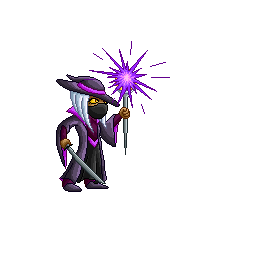
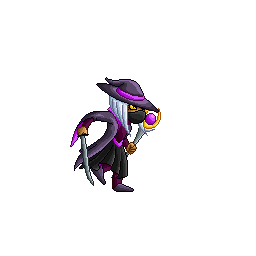
Add the third boss's policy

Changed region(s): [[0.2188, 0.1562, 0.6562, 0.75], [0.5938, 0.25, 0.6562, 0.3125]]

diff --git a/characters/level3/wizard_level3.py b/characters/level3/wizard_level3.py
@@ -1,74 +1,164 @@
-import pygame
 from characters.enemy import Enemy
 from characters.level1.projectile_level1 import Projectile
-from masters.first_boss_sprite_master import FirstBossSpriteMaster
+from characters.attack_info import AttackInfo
+from masters.second_boss_sprite_master import SecondBossSpriteMaster
 from scenes.scene_state import SceneState
 
 
 class ThirdBoss(Enemy):
 
-    def __init__(self, game_screen, start_position, projectile: Projectile):
-        super().__init__(game_screen, start_position, FirstBossSpriteMaster("levels/level3/wizard", 
-                            idle=3, walk=6, close_attack=5, distant_attack=5, 
-                            hurt=2, death=5, block=0, start_action="idle"))
+    def __init__(self, game_screen, start_position, projectile: Projectile, summoned_enemy: Enemy):
+        super().__init__(game_screen, start_position, SecondBossSpriteMaster("levels/level3/wizard", 
+                            idle=3, walk=6, close_attack=6, distant_attack=5, summoning=5, 
+                            hurt=2, death=6, block=0, start_action="idle"))
         
-        # Inject the projectile the wizard will use and adjust its position
+       # Inject the projectile the wizard will use and adjust its position
         self.projectile = projectile
         self.projectile.current_position[1] = self.current_position[1] + self.size * 0.2
-        self.collision_distance = 90
 
-        # Flag that indicates if the wizard has already shot
-        self.has_shot = False
+        # Inject the enemy the wizard will summon
+        self.summoned_enemy = summoned_enemy
 
+
+        self.attack_info = AttackInfo(3, True)
+        self.collision_distance = 100
         self.size = 220
 
-        # Cooldown time for attacks in milliseconds 
-        self.attack_cooldown = 500
+        # Flag indicating that the wizard has already passed the summoning phase
+        self.summoning_phase_done = False
 
-        # Elapsed time since last attack action
+        # Flag indicating that the wizard has already passed the shooting phase
+        self.shooting_phase_done = False 
+
+        # Flag indicating that the wizard has already passed the close combat phase
+        self.close_combat_phase_done = False 
+
+        # Duration of the summoning phase in milliseconds 
+        self.summoning_duration = 1500
+
+        # Duration of the shooting phase in milliseconds 
+        self.shooting_duration = 9000
+
+        # Duration of the close combat phase in milliseconds 
+        self.close_combat_duration = 5000
+
+        # Flag that indicates if the wizard has already shot within his distant attack
+        self.has_shot = False
+
+        # Cooldown time for attacks in milliseconds 
+        self.distant_attack_cooldown = 800
+
+        # Elapsed time since last action
         self.elapsed_time = 0
+
+        # Elapsed time since last shot
+        self.shot_elapsed_time = 0
+
+        # Flag that indicates if the wizard has already summoned within his summoning_phase
+        self.has_summoned = False
+    
     
     def policy(self, scene_state: SceneState) -> str:
         """
-        Shoots once per preset time
-        Dies when your health is less than or equal to 0
+        Has 4 phases of the fight: shooting, close combat, summoning
         """
-
-        if self.health<=0 and self.death_counter>0:
-            self.death_counter -= self.speed
-            return "death"   
         
-        if self.health <= 0 and self.death_counter <= 0:
-            self.current_position = (-100, -100)
-            return "death"
+        if self.health<=0:
+            if self.sprite_master.round_done:
+                self.current_position= (-100, -100)
+            return "death"   
+    
+        self.elapsed_time += scene_state.get_elapsed_time()
 
-        if self.current_action in ["fight", "shoot"]:
+        if not self.shooting_phase_done:
+            if self.elapsed_time < self.shooting_duration:
+                return self.fire(scene_state)
+            else:
+                self.shooting_phase_done = True
+                self.elapsed_time = 0
+        elif not self.close_combat_phase_done:
+            if self.elapsed_time < self.close_combat_duration:
+                return self.hit(scene_state)
+            else:
+                self.close_combat_phase_done = True
+                self.elapsed_time = 0
+        elif not self.summoning_phase_done:
+            if self.elapsed_time < self.summoning_duration:
+                return self.summon()
+            else:
+                self.summoning_phase_done = True
+                self.elapsed_time = 0
+                # The flag must be set on False here because there must be only one summoned creature during the phase
+                self.has_summoned = False
+        else:
+            self.shooting_phase_done = False
+            self.close_combat_phase_done = False
+            self.summoning_phase_done = False
+            self.elapsed_time = 0
+
+        return "idle"
+    
+    def fire(self, scene_state: SceneState):
+        
+        if self.current_action in ["distant_fight", "shoot"]:
             # If it's one of the hit frames and it hasn't fired yet then return "shoot" instead of "fight"
-            if int(self.fight_counter) == len(self.sprite_master.attack_images) // 2 and not self.has_shot:
-                self.fight_counter -= self.speed
+            if 3.0 <= self.sprite_master.frame_index and not self.has_shot:
                 self.has_shot = True
                 return "shoot"
             # If the attack animation isn't over yet then return "fight"
-            if self.fight_counter > 0:
-                self.fight_counter -= self.speed
-                return "fight"
+            if not self.sprite_master.round_done:
+                return "distant_fight"
             # Otherwise return "idle"
             else:
-                self.fight_counter = len(self.sprite_master.attack_images)
-                self.elapsed_time = 0
+                self.shot_elapsed_time = 0
                 self.has_shot = False
                 return "idle"
         # If the current action is "idle" 
         # then update the elapsed time and check if it's bigger than the cooldown time 
         else:
-            self.elapsed_time += scene_state.get_elapsed_time()
+            self.shot_elapsed_time += scene_state.get_elapsed_time()
             # If the cooldown is over then return "fight" to begin a new attack
             # otherwise keep waiting
-            if self.elapsed_time >= self.attack_cooldown:
-                return "fight"
+            if self.shot_elapsed_time >= self.distant_attack_cooldown:
+                return "distant_fight"
             else:
-                print("I'm waiting")
                 return "idle"
+            
+    def hit(self, scene_state: SceneState):
+
+        if self.current_action in ["close_fight", "hit"]:
+            if self.sprite_master.round_done:
+                return "idle"
+            elif 4.0 <= self.sprite_master.frame_index <= 5.0:
+                return "hit"
+            else:
+                return "close_fight"
+        elif self.cal_distance2player(scene_state.get_player_pos()) < 100:
+            return "close_fight"
+    
+    def be_weak(self):
+        return "hurt"
+    
+    def be_alert(self):
+        return "idle"
+    
+    def summon(self):
+
+        if self.current_action in ["summon", "commit_summoning"]:
+
+            if 3.0 <= self.sprite_master.frame_index and not self.has_summoned:
+                self.has_summoned = True
+                return "commit_summoning"
+            if not self.sprite_master.round_done:
+                return "summon"
+            else:
+                return "idle"
+        else:
+            if self.has_summoned:
+                return "idle"
+            else:
+                return "summon"
+        
     
     def get_projectile(self):
         """
@@ -78,3 +168,9 @@ class ThirdBoss(Enemy):
         projectile.current_position = self.current_position.copy()
         return projectile
     
+    def get_summoned_creature(self):
+        """
+        Returns a copy of the injected enemy instance
+        """
+        return self.summoned_enemy.copy()
+

diff --git a/scenes/scene04.py b/scenes/scene04.py
@@ -3,6 +3,7 @@ from scenes.scene00 import ScenePrelevel00
 from masters.save_master import SaveMaster
 from characters.level3.projectile_level3 import Projectile
 from characters.level3.wizard_level3 import ThirdBoss
+from characters.level2.ghost import Ghost
 from tools import Video 
 
 class Scene04(ScenePrelevel00):
@@ -12,13 +13,13 @@ class Scene04(ScenePrelevel00):
         super().__init__(scene_path, save_master, game_screen, clock, font, display_instructions=False)
         self.id = 104
         self.level = 3
-        self.enemy_pos = pygame.Vector2(self.game_screen.get_width()*0.75, self.game_screen.get_height() * 0.59)
-        self.enemies = [ThirdBoss(game_screen, self.enemy_pos.copy(), Projectile(game_screen, self.enemy_pos.copy()))]
+        self.enemy_pos = pygame.Vector2(pygame.Vector2(550, 80))
+        self.enemies = [ThirdBoss(game_screen, self.enemy_pos.copy(), 
+                                  Projectile(game_screen, self.enemy_pos.copy()), 
+                                  Ghost(game_screen, pygame.Vector2(self.game_screen.get_width()*0.8, self.game_screen.get_height() * 0.66)))]
         self.platform_positions = [(600, 320), (180, 320)]
         self.scaled_width_platforms = 110
         self.platforms = []
         self.intro_video = intro_video
         self.load_platforms()
-
-        self.enemies[0].current_position = pygame.Vector2(550, 80)
         

diff --git a/characters/level2/wizard_level2.py b/characters/level2/wizard_level2.py
@@ -70,7 +70,7 @@ class SecondBoss(Enemy):
     
     def policy(self, scene_state: SceneState) -> str:
         """
-        Has 4 phases of the fight: shooting, close combat, being weak, being alert
+        Has 4 phases of the fight: shooting, close combat, being weak, being alert, summoning
         """
         
         if self.health<=0:
@@ -105,7 +105,7 @@ class SecondBoss(Enemy):
                 self.combat_alert_phase_done = True
                 self.elapsed_time = 0
         elif not self.summoning_phase_done:
-            if self.elapsed_time < self.combat_alert_duration:
+            if self.elapsed_time < self.summoning_duration:
                 return self.summon()
             else:
                 self.summoning_phase_done = True

diff --git a/characters/level3/projectile_level3.py b/characters/level3/projectile_level3.py
@@ -1,4 +1,5 @@
 from characters.enemy import Enemy
+from characters.attack_info import AttackInfo
 from scenes.scene_state import SceneState
 from masters.sprite_master import SpriteMaster
 import pygame
@@ -9,7 +10,7 @@ class Projectile(Enemy):
                               idle=0, walk=0, attack=4, 
                               hurt=0, death=3, block=0, start_action="hit"))
         self.current_action = "hit"
-        self.damage = 10
+        self.attack_info = AttackInfo(30, False)
         self.speed = 3
         self.collision_distance = 50
         self.current_position[1] += 20
